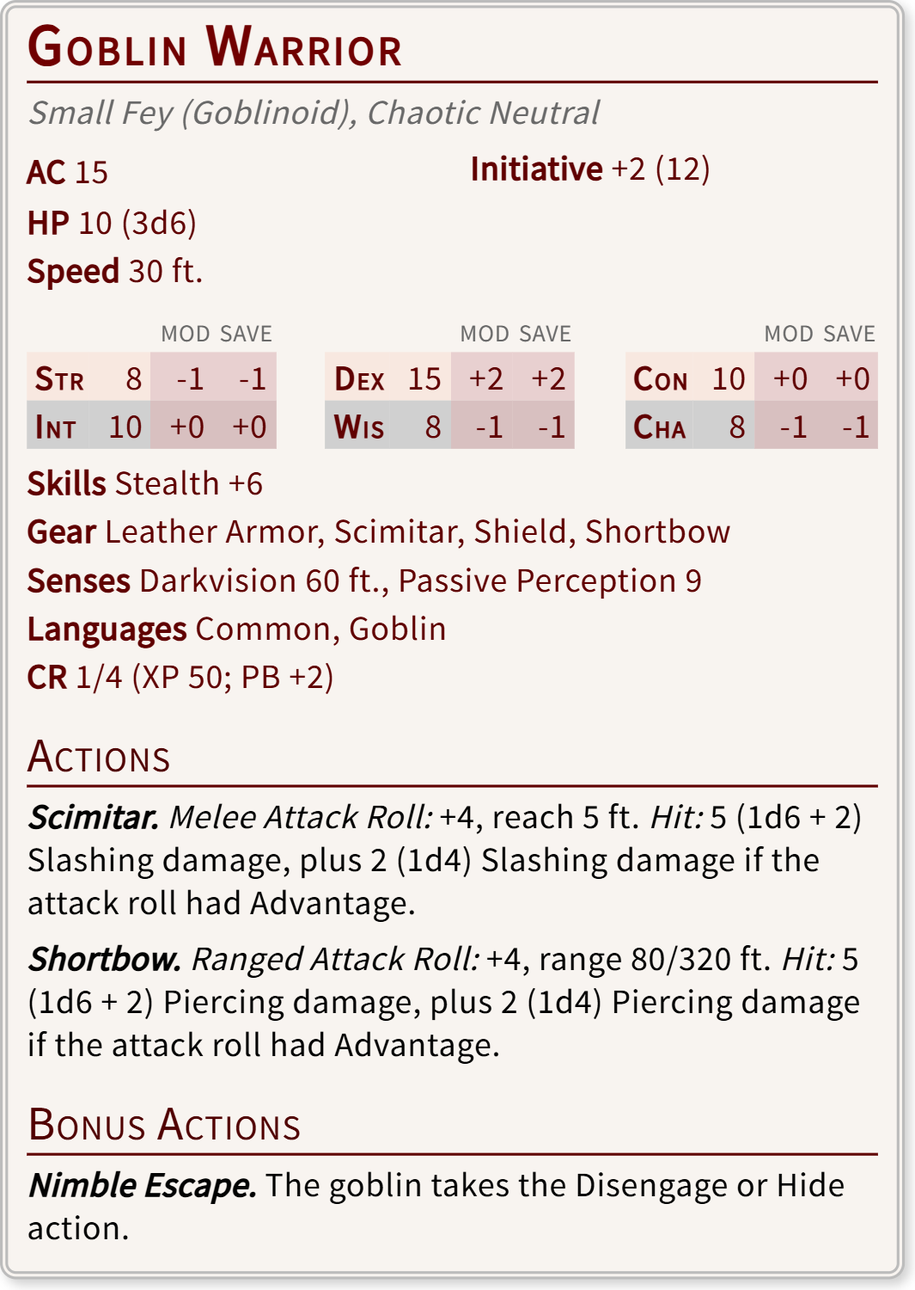
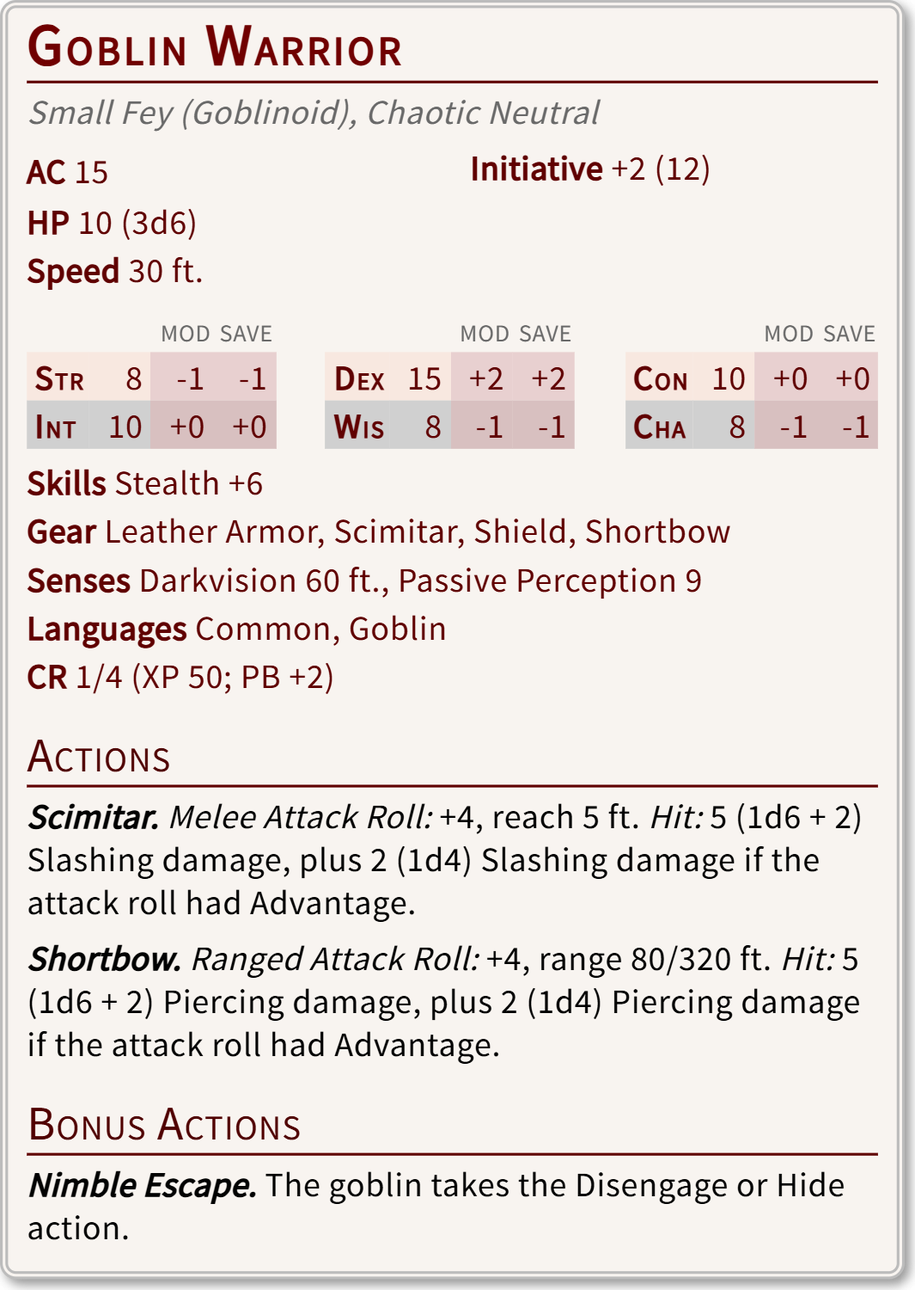
Updated demo images with new border drop shadow and updated source

Changed region(s): [[0.0, 0.0, 1.0, 1.0]]

diff --git a/js/StatblockWizardMain.js b/js/StatblockWizardMain.js
@@ -134,9 +134,9 @@ function sampleCat1() {
 }
 
 function sampleGoblinWarrior() {
-    return JSON.parse(`[{"type":"version","version":"2024.6","columns":1},{"type":"group","css":"header"},{"type":"section","caption":"General","showcaption":false,"css":"section general","captioncss":""},{"type":"string","caption":"Name","showcaption":false,"defaultvalue":"","css":"title","captioncss":"","value":"Goblin Warrior"},{"type":"string","caption":"Creature info","showcaption":false,"defaultvalue":"","css":"sizetypetagsalignment","captioncss":"","value":"Small Fey (Goblinoid), Chaotic Neutral"},{"type":"sectionend","content":"static","values":[]},{"type":"groupend"},{"type":"group","css":"core"},{"type":"section","caption":"","showcaption":false,"css":"section general2","captioncss":""},{"type":"ac2024","caption":"AC","showcaption":true,"defaultvalue":"","css":"feature armorclass","captioncss":"keyword","value":"15"},{"type":"string","caption":"Initiative","showcaption":true,"defaultvalue":"","css":"feature initiative","captioncss":"keyword","value":"+2 (12)"},{"type":"sectionend","content":"static","values":[]},{"type":"section","caption":"","showcaption":false,"css":"section general3","captioncss":""},{"type":"string","caption":"HP","showcaption":true,"defaultvalue":"","css":"feature hp","captioncss":"keyword","value":"10 (3d6)"},{"type":"string","caption":"Speed","showcaption":true,"defaultvalue":"","css":"feature speed","captioncss":"keyword","value":"30 ft."},{"type":"sectionend","content":"static","values":[]},{"type":"tablesection","caption":"Abilities","showcaption":false,"css":"section abilities","captioncss":"","tablecss":"abilitiesblock"},{"type":"ability2024","caption":"Str","modcaption":"mod","savecaption":"save","defaultvalue":"","css":"ability","captioncss":"abilityname physicalabilities","scorecss":"abilityscore physicalabilities","modifiercss":"abilitymodifier physicalmods","savecss":"abilitysave physicalmods","number":1,"value":{"score":"8","mod":"-1","save":"-1"}},{"type":"ability2024","caption":"Dex","modcaption":"mod","savecaption":"save","defaultvalue":"","css":"ability","captioncss":"abilityname physicalabilities","scorecss":"abilityscore physicalabilities","modifiercss":"abilitymodifier physicalmods","savecss":"abilitysave physicalmods","number":2,"value":{"score":"15","mod":"+2","save":"+2"}},{"type":"ability2024","caption":"Con","modcaption":"mod","savecaption":"save","defaultvalue":"","css":"ability","captioncss":"abilityname physicalabilities","scorecss":"abilityscore physicalabilities","modifiercss":"abilitymodifier physicalmods","savecss":"abilitysave physicalmods","number":3,"value":{"score":"10","mod":"+0","save":"+0"}},{"type":"ability2024","caption":"Int","modcaption":"mod","savecaption":"save","defaultvalue":"","css":"ability","captioncss":"abilityname mentalabilities","scorecss":"abilityscore mentalabilities","modifiercss":"abilitymodifier mentalmods","savecss":"abilitysave mentalmods","number":1,"value":{"score":"10","mod":"+0","save":"+0"}},{"type":"ability2024","caption":"Wis","modcaption":"mod","savecaption":"save","defaultvalue":"","css":"ability","captioncss":"abilityname mentalabilities","scorecss":"abilityscore mentalabilities","modifiercss":"abilitymodifier mentalmods","savecss":"abilitysave mentalmods","number":2,"value":{"score":"8","mod":"-1","save":"-1"}},{"type":"ability2024","caption":"Cha","modcaption":"mod","savecaption":"save","defaultvalue":"","css":"ability","captioncss":"abilityname mentalabilities","scorecss":"abilityscore mentalabilities","modifiercss":"abilitymodifier mentalmods","savecss":"abilitysave mentalmods","number":3,"value":{"score":"8","mod":"-1","save":"-1"}},{"type":"tablesectionend","content":"static"},{"type":"section","caption":"Features","showcaption":false,"css":"section features","captioncss":""},{"type":"skills5e","caption":"Skills","showcaption":true,"defaultvalue":"","css":"feature skills","captioncss":"keyword","skillcss":"skill","value":"Stealth +6"},{"type":"string","caption":"Vulnerabilities","showcaption":true,"defaultvalue":"","css":"feature vulnerabilities","captioncss":"keyword","value":""},{"type":"string","caption":"Resistances","showcaption":true,"defaultvalue":"","css":"feature resistances","captioncss":"keyword","value":""},{"type":"string","caption":"Immunities","showcaption":true,"defaultvalue":"","css":"feature immunities","captioncss":"keyword","value":""},{"type":"string","caption":"Gear","showcaption":true,"defaultvalue":"","css":"feature gear","captioncss":"keyword","value":"Leather Armor, Scimitar, Shield, Shortbow"},{"type":"senses5e","caption":"Senses","showcaption":true,"defaultvalue":"","css":"feature senses","captioncss":"keyword","value":"Darkvision 60 ft., Passive Perception 9"},{"type":"languages5e","caption":"Languages","showcaption":true,"defaultvalue":"","css":"feature languages","captioncss":"keyword","value":"Common, Goblin"},{"type":"string","caption":"CR","showcaption":true,"defaultvalue":"","css":"feature cr","captioncss":"keyword","value":"1/4 (XP 50; PB +2)"},{"type":"sectionend","content":"static","values":[]},{"type":"groupend"},{"type":"group","css":"body"},{"type":"section","caption":"Characteristics (like Personality Traits, Ideals, Bonds, Flaws) ","showcaption":false,"css":"section characteristics","captioncss":""},{"type":"sectionend","content":"dynamic","contenttypes":[{"name":"feature","type":"namedstring"},{"name":"plain text","type":"text"},{"name":"list","type":"list"}],"values":[]},{"type":"section","caption":"Traits","showcaption":true,"css":"section traits","captioncss":"sectionheader"},{"type":"sectionend","content":"dynamic","contenttypes":[{"name":"feature","type":"namedstring"},{"name":"attack","type":"attack2024"},{"name":"saving throw","type":"save2024"},{"name":"plain text","type":"text"},{"name":"list","type":"list"}],"values":[]},{"type":"section","caption":"Actions","showcaption":true,"css":"section actions","captioncss":"sectionheader"},{"type":"sectionend","content":"dynamic","contenttypes":[{"name":"feature","type":"namedstring"},{"name":"attack","type":"attack2024"},{"name":"saving throw","type":"save2024"},{"name":"plain text","type":"text"},{"name":"list","type":"list"}],"values":[{"type":"attack2024","caption":"Scimitar.","attacktype":"0","attack":"+4, reach 5 ft.","hit":"5 (1d6 + 2) Slashing damage, plus 2 (1d4) Slashing damage if the attack roll had Advantage."},{"type":"attack2024","caption":"Shortbow.","attacktype":"1","attack":"+4, range 80/320 ft.","hit":"5 (1d6 + 2) Piercing damage, plus 2 (1d4) Piercing damage if the attack roll had Advantage."}]},{"type":"section","caption":"Bonus Actions","showcaption":true,"css":"section bonusactions","captioncss":"sectionheader"},{"type":"sectionend","content":"dynamic","contenttypes":[{"name":"feature","type":"namedstring"},{"name":"attack","type":"attack2024"},{"name":"saving throw","type":"save2024"},{"name":"plain text","type":"text"},{"name":"list","type":"list"}],"values":[{"type":"namedstring","caption":"Nimble Escape.","value":"The goblin takes the Disengage or Hide action."}]},{"type":"section","caption":"Reactions","showcaption":true,"css":"section reactions","captioncss":"sectionheader"},{"type":"sectionend","content":"dynamic","contenttypes":[{"name":"reaction","type":"reaction2024"},{"name":"feature","type":"namedstring"},{"name":"attack","type":"attack2024"},{"name":"saving throw","type":"save2024"},{"name":"plain text","type":"text"},{"name":"list","type":"list"}],"values":[]},{"type":"section","caption":"Legendary Actions","showcaption":true,"css":"section legendaryactions","captioncss":"sectionheader"},{"type":"sectionend","content":"dynamic","contenttypes":[{"name":"legendary text","type":"legendarytext"},{"name":"feature","type":"namedstring"},{"name":"attack","type":"attack2024"},{"name":"saving throw","type":"save2024"},{"name":"plain text","type":"text"},{"name":"list","type":"list"}],"values":[]},{"type":"section","caption":"Epic Actions","showcaption":true,"css":"section epicactions","captioncss":"sectionheader"},{"type":"sectionend","content":"dynamic","contenttypes":[{"name":"legendary text","type":"legendarytext"},{"name":"feature","type":"namedstring"},{"name":"attack","type":"attack2024"},{"name":"saving throw","type":"save2024"},{"name":"plain text","type":"text"},{"name":"list","type":"list"}],"values":[]},{"type":"groupend"},{"type":"section","caption":"Supplemental","showcaption":false,"css":"section supplemental","captioncss":""},{"type":"image","caption":"Image","showcaption":false,"css":"image","maxheight":0,"position":"last","alignment":"center","beforeclass":"core","value":"","credits":""},{"type":"sectionend","content":"static","values":[]},{"type":"css","fortype":"namedstring","css":"line namedstring","captioncss":"keyword"},{"type":"css","fortype":"text","css":"line text"},{"type":"css","fortype":"legendarytext","css":"line legendarytext"},{"type":"css","fortype":"attack2024","css":"line attack","captioncss":"keyword","attackcss":"attacktype","hitcss":"hit"},{"type":"css","fortype":"save2024","css":"line savingthrow","captioncss":"keyword","savetypecss":"savingthrowtype","saveresultcss":"savingthrowresult"},{"type":"css","fortype":"reaction2024","css":"line reaction","captioncss":"keyword","triggercss":"trigger","responsecss":"response"},{"type":"css","fortype":"list","forsubtype":"ul","listcss":"line list-ul","css":"listitem","captioncss":"keyword"},{"type":"css","fortype":"list","forsubtype":"ol","listcss":"line list-ol","css":"listitem","captioncss":"keyword"},{"type":"css","fortype":"list","forsubtype":"dl","listcss":"line list-dl","css":"listitem","captioncss":"keyword"},{"type":"css","fortype":"list","forsubtype":"spells5e","listcss":"line list-spells5e","captioncss":"spellliststart","css":"spelllist","spellcss":"spell"}]`);
+    return JSON.parse(`[{"type":"version","version":"2024.8","columns":1},{"type":"group","css":"header"},{"type":"section","caption":"General","showcaption":false,"css":"section general","captioncss":""},{"type":"string","caption":"Name","showcaption":false,"defaultvalue":"","css":"title","captioncss":"","value":"Goblin Warrior"},{"type":"string","caption":"Creature info","showcaption":false,"defaultvalue":"","css":"sizetypetagsalignment","captioncss":"","value":"Small Fey (Goblinoid), Chaotic Neutral"},{"type":"sectionend","content":"static","values":[]},{"type":"groupend"},{"type":"group","css":"core"},{"type":"section","caption":"","showcaption":false,"css":"section general2","captioncss":""},{"type":"ac2024","caption":"AC","showcaption":true,"defaultvalue":"","css":"feature armorclass","captioncss":"keyword","value":"15"},{"type":"string","caption":"Initiative","showcaption":true,"defaultvalue":"","css":"feature initiative","captioncss":"keyword","value":"+2 (12)"},{"type":"sectionend","content":"static","values":[]},{"type":"section","caption":"","showcaption":false,"css":"section general3","captioncss":""},{"type":"string","caption":"HP","showcaption":true,"defaultvalue":"","css":"feature hp","captioncss":"keyword","value":"10 (3d6)"},{"type":"string","caption":"Speed","showcaption":true,"defaultvalue":"","css":"feature speed","captioncss":"keyword","value":"30 ft."},{"type":"sectionend","content":"static","values":[]},{"type":"tablesection","caption":"Abilities","showcaption":false,"css":"section abilities","captioncss":"","tablecss":"abilitiesblock"},{"type":"ability2024","caption":"Str","modcaption":"mod","savecaption":"save","defaultvalue":"","css":"ability","captioncss":"abilityname physicalabilities","scorecss":"abilityscore physicalabilities","modifiercss":"abilitymodifier physicalmods","savecss":"abilitysave physicalmods","number":1,"value":{"score":"8","mod":"-1","save":"-1"}},{"type":"ability2024","caption":"Dex","modcaption":"mod","savecaption":"save","defaultvalue":"","css":"ability","captioncss":"abilityname physicalabilities","scorecss":"abilityscore physicalabilities","modifiercss":"abilitymodifier physicalmods","savecss":"abilitysave physicalmods","number":2,"value":{"score":"15","mod":"+2","save":"+2"}},{"type":"ability2024","caption":"Con","modcaption":"mod","savecaption":"save","defaultvalue":"","css":"ability","captioncss":"abilityname physicalabilities","scorecss":"abilityscore physicalabilities","modifiercss":"abilitymodifier physicalmods","savecss":"abilitysave physicalmods","number":3,"value":{"score":"10","mod":"+0","save":"+0"}},{"type":"ability2024","caption":"Int","modcaption":"mod","savecaption":"save","defaultvalue":"","css":"ability","captioncss":"abilityname mentalabilities","scorecss":"abilityscore mentalabilities","modifiercss":"abilitymodifier mentalmods","savecss":"abilitysave mentalmods","number":1,"value":{"score":"10","mod":"+0","save":"+0"}},{"type":"ability2024","caption":"Wis","modcaption":"mod","savecaption":"save","defaultvalue":"","css":"ability","captioncss":"abilityname mentalabilities","scorecss":"abilityscore mentalabilities","modifiercss":"abilitymodifier mentalmods","savecss":"abilitysave mentalmods","number":2,"value":{"score":"8","mod":"-1","save":"-1"}},{"type":"ability2024","caption":"Cha","modcaption":"mod","savecaption":"save","defaultvalue":"","css":"ability","captioncss":"abilityname mentalabilities","scorecss":"abilityscore mentalabilities","modifiercss":"abilitymodifier mentalmods","savecss":"abilitysave mentalmods","number":3,"value":{"score":"8","mod":"-1","save":"-1"}},{"type":"tablesectionend","content":"static"},{"type":"section","caption":"Features","showcaption":false,"css":"section features","captioncss":""},{"type":"skills5e","caption":"Skills","showcaption":true,"defaultvalue":"","css":"feature skills","captioncss":"keyword","skillcss":"skill","value":"Stealth +6"},{"type":"string","caption":"Vulnerabilities","showcaption":true,"defaultvalue":"","css":"feature vulnerabilities","captioncss":"keyword","value":""},{"type":"string","caption":"Resistances","showcaption":true,"defaultvalue":"","css":"feature resistances","captioncss":"keyword","value":""},{"type":"string","caption":"Immunities","showcaption":true,"defaultvalue":"","css":"feature immunities","captioncss":"keyword","value":""},{"type":"string","caption":"Gear","showcaption":true,"defaultvalue":"","css":"feature gear","captioncss":"keyword","value":"Leather Armor, Scimitar, Shield, Shortbow"},{"type":"senses5e","caption":"Senses","showcaption":true,"defaultvalue":"","css":"feature senses","captioncss":"keyword","value":"Darkvision 60 ft., Passive Perception 9"},{"type":"languages5e","caption":"Languages","showcaption":true,"defaultvalue":"","css":"feature languages","captioncss":"keyword","value":"Common, Goblin"},{"type":"string","caption":"CR","showcaption":true,"defaultvalue":"","css":"feature cr","captioncss":"keyword","value":"1/4 (XP 50; PB +2)"},{"type":"sectionend","content":"static","values":[]},{"type":"groupend"},{"type":"group","css":"body"},{"type":"section","caption":"Characteristics (like Personality Traits, Ideals, Bonds, Flaws) ","showcaption":false,"css":"section characteristics","captioncss":""},{"type":"sectionend","content":"dynamic","contenttypes":[{"name":"feature","type":"namedstring"},{"name":"plain text","type":"text"},{"name":"list","type":"list"}],"values":[]},{"type":"section","caption":"Traits","showcaption":true,"css":"section traits","captioncss":"sectionheader"},{"type":"sectionend","content":"dynamic","contenttypes":[{"name":"feature","type":"namedstring"},{"name":"attack","type":"attack2024"},{"name":"saving throw","type":"save2024"},{"name":"plain text","type":"text"},{"name":"list","type":"list"}],"values":[]},{"type":"section","caption":"Actions","showcaption":true,"css":"section actions","captioncss":"sectionheader"},{"type":"sectionend","content":"dynamic","contenttypes":[{"name":"feature","type":"namedstring"},{"name":"attack","type":"attack2024"},{"name":"saving throw","type":"save2024"},{"name":"plain text","type":"text"},{"name":"list","type":"list"}],"values":[{"type":"attack2024","caption":"Scimitar.","attacktype":"0","attack":"+4, reach 5 ft.","hit":"5 (1d6 + 2) Slashing damage, plus 2 (1d4) Slashing damage if the attack roll had Advantage.","hitmiss":""},{"type":"attack2024","caption":"Shortbow.","attacktype":"1","attack":"+4, range 80/320 ft.","hit":"5 (1d6 + 2) Piercing damage, plus 2 (1d4) Piercing damage if the attack roll had Advantage.","hitmiss":""}]},{"type":"section","caption":"Bonus Actions","showcaption":true,"css":"section bonusactions","captioncss":"sectionheader"},{"type":"sectionend","content":"dynamic","contenttypes":[{"name":"feature","type":"namedstring"},{"name":"attack","type":"attack2024"},{"name":"saving throw","type":"save2024"},{"name":"plain text","type":"text"},{"name":"list","type":"list"}],"values":[{"type":"namedstring","caption":"Nimble Escape.","value":"The goblin takes the Disengage or Hide action."}]},{"type":"section","caption":"Reactions","showcaption":true,"css":"section reactions","captioncss":"sectionheader"},{"type":"sectionend","content":"dynamic","contenttypes":[{"name":"reaction","type":"reaction2024"},{"name":"feature","type":"namedstring"},{"name":"attack","type":"attack2024"},{"name":"saving throw","type":"save2024"},{"name":"plain text","type":"text"},{"name":"list","type":"list"}],"values":[]},{"type":"section","caption":"Legendary Actions","showcaption":true,"css":"section legendaryactions","captioncss":"sectionheader"},{"type":"sectionend","content":"dynamic","contenttypes":[{"name":"legendary text","type":"legendarytext"},{"name":"feature","type":"namedstring"},{"name":"attack","type":"attack2024"},{"name":"saving throw","type":"save2024"},{"name":"plain text","type":"text"},{"name":"list","type":"list"}],"values":[]},{"type":"section","caption":"Epic Actions","showcaption":true,"css":"section epicactions","captioncss":"sectionheader"},{"type":"sectionend","content":"dynamic","contenttypes":[{"name":"legendary text","type":"legendarytext"},{"name":"feature","type":"namedstring"},{"name":"attack","type":"attack2024"},{"name":"saving throw","type":"save2024"},{"name":"plain text","type":"text"},{"name":"list","type":"list"}],"values":[]},{"type":"groupend"},{"type":"section","caption":"Supplemental","showcaption":false,"css":"section supplemental","captioncss":""},{"type":"image","caption":"Image","showcaption":false,"css":"image","maxheight":0,"position":"last","alignment":"center","beforeclass":"core","value":"","credits":""},{"type":"sectionend","content":"static","values":[]},{"type":"attribution","caption":"Attribution","defaultvalue":"","css1":"attribution1","css2":"StatblockWizard-attribution2"},{"type":"css","fortype":"namedstring","css":"line namedstring","captioncss":"keyword"},{"type":"css","fortype":"text","css":"line text"},{"type":"css","fortype":"legendarytext","css":"line legendarytext"},{"type":"css","fortype":"attack2024","css":"line attack","captioncss":"keyword","attackcss":"attacktype","hitcss":"hit","hitmisscss":"hitmiss"},{"type":"css","fortype":"save2024","css":"line savingthrow","captioncss":"keyword","savetypecss":"savingthrowtype","saveresultcss":"savingthrowresult"},{"type":"css","fortype":"reaction2024","css":"line reaction","captioncss":"keyword","triggercss":"trigger","responsecss":"response"},{"type":"css","fortype":"list","forsubtype":"ul","listcss":"line list-ul","css":"listitem","captioncss":"keyword"},{"type":"css","fortype":"list","forsubtype":"ol","listcss":"line list-ol","css":"listitem","captioncss":"keyword"},{"type":"css","fortype":"list","forsubtype":"dl","listcss":"line list-dl","css":"listitem","captioncss":"keyword"},{"type":"css","fortype":"list","forsubtype":"spells5e","listcss":"line list-spells5e","captioncss":"spellliststart","css":"spelllist","spellcss":"spell"}]`);
 }
 
 function sampleIncubus() {
-    return JSON.parse(`[{"type":"version","version":"2024.6","columns":2},{"type":"group","css":"header"},{"type":"section","caption":"General","showcaption":false,"css":"section general","captioncss":""},{"type":"string","caption":"Name","showcaption":false,"defaultvalue":"","css":"title","captioncss":"","value":"Incubus"},{"type":"string","caption":"Creature info","showcaption":false,"defaultvalue":"","css":"sizetypetagsalignment","captioncss":"","value":"Medium Fiend, Neutral Evil"},{"type":"sectionend","content":"static","values":[]},{"type":"groupend"},{"type":"group","css":"core"},{"type":"section","caption":"","showcaption":false,"css":"section general2","captioncss":""},{"type":"ac2024","caption":"AC","showcaption":true,"defaultvalue":"","css":"feature armorclass","captioncss":"keyword","value":"15"},{"type":"string","caption":"Initiative","showcaption":true,"defaultvalue":"","css":"feature initiative","captioncss":"keyword","value":"+3 (13)"},{"type":"sectionend","content":"static","values":[]},{"type":"section","caption":"","showcaption":false,"css":"section general3","captioncss":""},{"type":"string","caption":"HP","showcaption":true,"defaultvalue":"","css":"feature hp","captioncss":"keyword","value":"66 (12d8 + 12)"},{"type":"string","caption":"Speed","showcaption":true,"defaultvalue":"","css":"feature speed","captioncss":"keyword","value":"30 ft., fly 60 ft."},{"type":"sectionend","content":"static","values":[]},{"type":"tablesection","caption":"Abilities","showcaption":false,"css":"section abilities","captioncss":"","tablecss":"abilitiesblock"},{"type":"ability2024","caption":"Str","modcaption":"mod","savecaption":"save","defaultvalue":"","css":"ability","captioncss":"abilityname physicalabilities","scorecss":"abilityscore physicalabilities","modifiercss":"abilitymodifier physicalmods","savecss":"abilitysave physicalmods","number":1,"value":{"score":"8","mod":"-1","save":"-1"}},{"type":"ability2024","caption":"Dex","modcaption":"mod","savecaption":"save","defaultvalue":"","css":"ability","captioncss":"abilityname physicalabilities","scorecss":"abilityscore physicalabilities","modifiercss":"abilitymodifier physicalmods","savecss":"abilitysave physicalmods","number":2,"value":{"score":"17","mod":"+3","save":"+3"}},{"type":"ability2024","caption":"Con","modcaption":"mod","savecaption":"save","defaultvalue":"","css":"ability","captioncss":"abilityname physicalabilities","scorecss":"abilityscore physicalabilities","modifiercss":"abilitymodifier physicalmods","savecss":"abilitysave physicalmods","number":3,"value":{"score":"13","mod":"+1","save":"+1"}},{"type":"ability2024","caption":"Int","modcaption":"mod","savecaption":"save","defaultvalue":"","css":"ability","captioncss":"abilityname mentalabilities","scorecss":"abilityscore mentalabilities","modifiercss":"abilitymodifier mentalmods","savecss":"abilitysave mentalmods","number":1,"value":{"score":"15","mod":"+2","save":"+2"}},{"type":"ability2024","caption":"Wis","modcaption":"mod","savecaption":"save","defaultvalue":"","css":"ability","captioncss":"abilityname mentalabilities","scorecss":"abilityscore mentalabilities","modifiercss":"abilitymodifier mentalmods","savecss":"abilitysave mentalmods","number":2,"value":{"score":"12","mod":"+1","save":"+1"}},{"type":"ability2024","caption":"Cha","modcaption":"mod","savecaption":"save","defaultvalue":"","css":"ability","captioncss":"abilityname mentalabilities","scorecss":"abilityscore mentalabilities","modifiercss":"abilitymodifier mentalmods","savecss":"abilitysave mentalmods","number":3,"value":{"score":"20","mod":"+5","save":"+5"}},{"type":"tablesectionend","content":"static"},{"type":"section","caption":"Features","showcaption":false,"css":"section features","captioncss":""},{"type":"skills5e","caption":"Skills","showcaption":true,"defaultvalue":"","css":"feature skills","captioncss":"keyword","skillcss":"skill","value":"Deception +9, Insight +5, Perception +5, Persuasion +9, Stealth +7"},{"type":"string","caption":"Vulnerabilities","showcaption":true,"defaultvalue":"","css":"feature vulnerabilities","captioncss":"keyword","value":""},{"type":"string","caption":"Resistances","showcaption":true,"defaultvalue":"","css":"feature resistances","captioncss":"keyword","value":"Cold, Fire, Poison, Psychic"},{"type":"string","caption":"Immunities","showcaption":true,"defaultvalue":"","css":"feature immunities","captioncss":"keyword","value":""},{"type":"string","caption":"Gear","showcaption":true,"defaultvalue":"","css":"feature gear","captioncss":"keyword","value":""},{"type":"senses5e","caption":"Senses","showcaption":true,"defaultvalue":"","css":"feature senses","captioncss":"keyword","value":"Darkvision 60 ft., Passive Perception 15"},{"type":"languages5e","caption":"Languages","showcaption":true,"defaultvalue":"","css":"feature languages","captioncss":"keyword","value":"Abyssal, Common, Infernal, Telepathy 60 ft."},{"type":"string","caption":"CR","showcaption":true,"defaultvalue":"","css":"feature cr","captioncss":"keyword","value":"4 (XP 1,100; PB +2)"},{"type":"sectionend","content":"static","values":[]},{"type":"groupend"},{"type":"group","css":"body"},{"type":"section","caption":"Characteristics (like Personality Traits, Ideals, Bonds, Flaws) ","showcaption":false,"css":"section characteristics","captioncss":""},{"type":"sectionend","content":"dynamic","contenttypes":[{"name":"feature","type":"namedstring"},{"name":"plain text","type":"text"},{"name":"list","type":"list"}],"values":[]},{"type":"section","caption":"Traits","showcaption":true,"css":"section traits","captioncss":"sectionheader"},{"type":"sectionend","content":"dynamic","contenttypes":[{"name":"feature","type":"namedstring"},{"name":"plain text","type":"text"},{"name":"list","type":"list"}],"values":[{"type":"namedstring","caption":"Succubus Form.","value":"When the incubus finishes a Long Rest, it can shape-shift into a Succubus, using that stat block instead of this one. Any equipment it is wearing or carrying isn’t transformed."}]},{"type":"section","caption":"Actions","showcaption":true,"css":"section actions","captioncss":"sectionheader"},{"type":"sectionend","content":"dynamic","contenttypes":[{"name":"feature","type":"namedstring"},{"name":"attack","type":"attack2024"},{"name":"saving throw","type":"save2024"},{"name":"plain text","type":"text"},{"name":"list","type":"list"}],"values":[{"type":"namedstring","caption":"Multiattack.","value":"The incubus makes two Restless Touch attacks."},{"type":"attack2024","caption":"Restless Touch.","attacktype":"0","attack":"+7, reach 5 ft.","hit":"15 (3d6 + 5) Psychic damage, and the target is cursed for 24 hours or until the incubus dies. Until the curse ends, the target gains no benefit from finishing Short Rests."},{"type":"namedstring","caption":"Spellcasting.","value":"The incubus casts one of the following spells, requiring no Material components and using Charisma as the spellcasting ability (spell save DC 15):"},{"type":"list","listtype":"spells5e","values":[{"dt":"At Will:","dd":"Disguise Self, Etherealness"},{"dt":"1/Day Each:","dd":"Dream, Hypnotic Pattern"}]}]},{"type":"section","caption":"Bonus Actions","showcaption":true,"css":"section bonusactions","captioncss":"sectionheader"},{"type":"sectionend","content":"dynamic","contenttypes":[{"name":"feature","type":"namedstring"},{"name":"attack","type":"attack2024"},{"name":"saving throw","type":"save2024"},{"name":"plain text","type":"text"},{"name":"list","type":"list"}],"values":[{"type":"save2024","caption":"Nightmare (Recharge 6).","savetype":"4","savedc":"DC 15, one creature the incubus can see within 60 feet.","failure":"If the target has 20 Hit Points or fewer, it has the Unconscious condition for 1 hour, until it takes damage, or until a creature within 5 feet of it takes an action to wake it. Otherwise, the target takes 18 (4d8) Psychic damage.","success":"","failureorsuccess":""}]},{"type":"section","caption":"Reactions","showcaption":true,"css":"section reactions","captioncss":"sectionheader"},{"type":"sectionend","content":"dynamic","contenttypes":[{"name":"reaction","type":"reaction2024"},{"name":"feature","type":"namedstring"},{"name":"attack","type":"attack2024"},{"name":"saving throw","type":"save2024"},{"name":"plain text","type":"text"},{"name":"list","type":"list"}],"values":[]},{"type":"section","caption":"Legendary Actions","showcaption":true,"css":"section legendaryactions","captioncss":"sectionheader"},{"type":"sectionend","content":"dynamic","contenttypes":[{"name":"legendary text","type":"legendarytext"},{"name":"feature","type":"namedstring"},{"name":"attack","type":"attack2024"},{"name":"saving throw","type":"save2024"},{"name":"plain text","type":"text"},{"name":"list","type":"list"}],"values":[]},{"type":"section","caption":"Epic Actions","showcaption":true,"css":"section epicactions","captioncss":"sectionheader"},{"type":"sectionend","content":"dynamic","contenttypes":[{"name":"legendary text","type":"legendarytext"},{"name":"feature","type":"namedstring"},{"name":"attack","type":"attack2024"},{"name":"saving throw","type":"save2024"},{"name":"plain text","type":"text"},{"name":"list","type":"list"}],"values":[]},{"type":"groupend"},{"type":"section","caption":"Supplemental","showcaption":false,"css":"section supplemental","captioncss":""},{"type":"image","caption":"Image","showcaption":false,"css":"image","maxheight":0,"position":"last","alignment":"center","beforeclass":"core","value":"","credits":""},{"type":"sectionend","content":"static","values":[]},{"type":"css","fortype":"namedstring","css":"line namedstring","captioncss":"keyword"},{"type":"css","fortype":"text","css":"line text"},{"type":"css","fortype":"legendarytext","css":"line legendarytext"},{"type":"css","fortype":"attack2024","css":"line attack","captioncss":"keyword","attackcss":"attacktype","hitcss":"hit"},{"type":"css","fortype":"save2024","css":"line savingthrow","captioncss":"keyword","savetypecss":"savingthrowtype","saveresultcss":"savingthrowresult"},{"type":"css","fortype":"reaction2024","css":"line reaction","captioncss":"keyword","triggercss":"trigger","responsecss":"response"},{"type":"css","fortype":"list","forsubtype":"ul","listcss":"line list-ul","css":"listitem","captioncss":"keyword"},{"type":"css","fortype":"list","forsubtype":"ol","listcss":"line list-ol","css":"listitem","captioncss":"keyword"},{"type":"css","fortype":"list","forsubtype":"dl","listcss":"line list-dl","css":"listitem","captioncss":"keyword"},{"type":"css","fortype":"list","forsubtype":"spells5e","listcss":"line list-spells5e","captioncss":"spellliststart","css":"spelllist","spellcss":"spell"}]`);
+    return JSON.parse(`[{"type":"version","version":"2024.8","columns":2},{"type":"group","css":"header"},{"type":"section","caption":"General","showcaption":false,"css":"section general","captioncss":""},{"type":"string","caption":"Name","showcaption":false,"defaultvalue":"","css":"title","captioncss":"","value":"Incubus"},{"type":"string","caption":"Creature info","showcaption":false,"defaultvalue":"","css":"sizetypetagsalignment","captioncss":"","value":"Medium Fiend, Neutral Evil"},{"type":"sectionend","content":"static","values":[]},{"type":"groupend"},{"type":"group","css":"core"},{"type":"section","caption":"","showcaption":false,"css":"section general2","captioncss":""},{"type":"ac2024","caption":"AC","showcaption":true,"defaultvalue":"","css":"feature armorclass","captioncss":"keyword","value":"15"},{"type":"string","caption":"Initiative","showcaption":true,"defaultvalue":"","css":"feature initiative","captioncss":"keyword","value":"+3 (13)"},{"type":"sectionend","content":"static","values":[]},{"type":"section","caption":"","showcaption":false,"css":"section general3","captioncss":""},{"type":"string","caption":"HP","showcaption":true,"defaultvalue":"","css":"feature hp","captioncss":"keyword","value":"66 (12d8 + 12)"},{"type":"string","caption":"Speed","showcaption":true,"defaultvalue":"","css":"feature speed","captioncss":"keyword","value":"30 ft., fly 60 ft."},{"type":"sectionend","content":"static","values":[]},{"type":"tablesection","caption":"Abilities","showcaption":false,"css":"section abilities","captioncss":"","tablecss":"abilitiesblock"},{"type":"ability2024","caption":"Str","modcaption":"mod","savecaption":"save","defaultvalue":"","css":"ability","captioncss":"abilityname physicalabilities","scorecss":"abilityscore physicalabilities","modifiercss":"abilitymodifier physicalmods","savecss":"abilitysave physicalmods","number":1,"value":{"score":"8","mod":"-1","save":"-1"}},{"type":"ability2024","caption":"Dex","modcaption":"mod","savecaption":"save","defaultvalue":"","css":"ability","captioncss":"abilityname physicalabilities","scorecss":"abilityscore physicalabilities","modifiercss":"abilitymodifier physicalmods","savecss":"abilitysave physicalmods","number":2,"value":{"score":"17","mod":"+3","save":"+3"}},{"type":"ability2024","caption":"Con","modcaption":"mod","savecaption":"save","defaultvalue":"","css":"ability","captioncss":"abilityname physicalabilities","scorecss":"abilityscore physicalabilities","modifiercss":"abilitymodifier physicalmods","savecss":"abilitysave physicalmods","number":3,"value":{"score":"13","mod":"+1","save":"+1"}},{"type":"ability2024","caption":"Int","modcaption":"mod","savecaption":"save","defaultvalue":"","css":"ability","captioncss":"abilityname mentalabilities","scorecss":"abilityscore mentalabilities","modifiercss":"abilitymodifier mentalmods","savecss":"abilitysave mentalmods","number":1,"value":{"score":"15","mod":"+2","save":"+2"}},{"type":"ability2024","caption":"Wis","modcaption":"mod","savecaption":"save","defaultvalue":"","css":"ability","captioncss":"abilityname mentalabilities","scorecss":"abilityscore mentalabilities","modifiercss":"abilitymodifier mentalmods","savecss":"abilitysave mentalmods","number":2,"value":{"score":"12","mod":"+1","save":"+1"}},{"type":"ability2024","caption":"Cha","modcaption":"mod","savecaption":"save","defaultvalue":"","css":"ability","captioncss":"abilityname mentalabilities","scorecss":"abilityscore mentalabilities","modifiercss":"abilitymodifier mentalmods","savecss":"abilitysave mentalmods","number":3,"value":{"score":"20","mod":"+5","save":"+5"}},{"type":"tablesectionend","content":"static"},{"type":"section","caption":"Features","showcaption":false,"css":"section features","captioncss":""},{"type":"skills5e","caption":"Skills","showcaption":true,"defaultvalue":"","css":"feature skills","captioncss":"keyword","skillcss":"skill","value":"Deception +9, Insight +5, Perception +5, Persuasion +9, Stealth +7"},{"type":"string","caption":"Vulnerabilities","showcaption":true,"defaultvalue":"","css":"feature vulnerabilities","captioncss":"keyword","value":""},{"type":"string","caption":"Resistances","showcaption":true,"defaultvalue":"","css":"feature resistances","captioncss":"keyword","value":"Cold, Fire, Poison, Psychic"},{"type":"string","caption":"Immunities","showcaption":true,"defaultvalue":"","css":"feature immunities","captioncss":"keyword","value":""},{"type":"string","caption":"Gear","showcaption":true,"defaultvalue":"","css":"feature gear","captioncss":"keyword","value":""},{"type":"senses5e","caption":"Senses","showcaption":true,"defaultvalue":"","css":"feature senses","captioncss":"keyword","value":"Darkvision 60 ft., Passive Perception 15"},{"type":"languages5e","caption":"Languages","showcaption":true,"defaultvalue":"","css":"feature languages","captioncss":"keyword","value":"Abyssal, Common, Infernal, Telepathy 60 ft."},{"type":"string","caption":"CR","showcaption":true,"defaultvalue":"","css":"feature cr","captioncss":"keyword","value":"4 (XP 1,100; PB +2)"},{"type":"sectionend","content":"static","values":[]},{"type":"groupend"},{"type":"group","css":"body"},{"type":"section","caption":"Characteristics (like Personality Traits, Ideals, Bonds, Flaws) ","showcaption":false,"css":"section characteristics","captioncss":""},{"type":"sectionend","content":"dynamic","contenttypes":[{"name":"feature","type":"namedstring"},{"name":"plain text","type":"text"},{"name":"list","type":"list"}],"values":[]},{"type":"section","caption":"Traits","showcaption":true,"css":"section traits","captioncss":"sectionheader"},{"type":"sectionend","content":"dynamic","contenttypes":[{"name":"feature","type":"namedstring"},{"name":"plain text","type":"text"},{"name":"list","type":"list"}],"values":[{"type":"namedstring","caption":"Succubus Form.","value":"When the incubus finishes a Long Rest, it can shape-shift into a Succubus, using that stat block instead of this one. Any equipment it is wearing or carrying isn’t transformed."}]},{"type":"section","caption":"Actions","showcaption":true,"css":"section actions","captioncss":"sectionheader"},{"type":"sectionend","content":"dynamic","contenttypes":[{"name":"feature","type":"namedstring"},{"name":"attack","type":"attack2024"},{"name":"saving throw","type":"save2024"},{"name":"plain text","type":"text"},{"name":"list","type":"list"}],"values":[{"type":"namedstring","caption":"Multiattack.","value":"The incubus makes two Restless Touch attacks."},{"type":"attack2024","caption":"Restless Touch.","attacktype":"0","attack":"+7, reach 5 ft.","hit":"15 (3d6 + 5) Psychic damage, and the target is cursed for 24 hours or until the incubus dies. Until the curse ends, the target gains no benefit from finishing Short Rests.","hitmiss":""},{"type":"namedstring","caption":"Spellcasting.","value":"The incubus casts one of the following spells, requiring no Material components and using Charisma as the spellcasting ability (spell save DC 15):"},{"type":"list","listtype":"spells5e","values":[{"dt":"At Will:","dd":"Disguise Self, Etherealness"},{"dt":"1/Day Each:","dd":"Dream, Hypnotic Pattern"}]}]},{"type":"section","caption":"Bonus Actions","showcaption":true,"css":"section bonusactions","captioncss":"sectionheader"},{"type":"sectionend","content":"dynamic","contenttypes":[{"name":"feature","type":"namedstring"},{"name":"attack","type":"attack2024"},{"name":"saving throw","type":"save2024"},{"name":"plain text","type":"text"},{"name":"list","type":"list"}],"values":[{"type":"save2024","caption":"Nightmare (Recharge 6).","savetype":"4","savedc":"DC 15, one creature the incubus can see within 60 feet.","failure":"If the target has 20 Hit Points or fewer, it has the Unconscious condition for 1 hour, until it takes damage, or until a creature within 5 feet of it takes an action to wake it. Otherwise, the target takes 18 (4d8) Psychic damage.","secondfailure":"undefined","success":"","failureorsuccess":""}]},{"type":"section","caption":"Reactions","showcaption":true,"css":"section reactions","captioncss":"sectionheader"},{"type":"sectionend","content":"dynamic","contenttypes":[{"name":"reaction","type":"reaction2024"},{"name":"feature","type":"namedstring"},{"name":"attack","type":"attack2024"},{"name":"saving throw","type":"save2024"},{"name":"plain text","type":"text"},{"name":"list","type":"list"}],"values":[]},{"type":"section","caption":"Legendary Actions","showcaption":true,"css":"section legendaryactions","captioncss":"sectionheader"},{"type":"sectionend","content":"dynamic","contenttypes":[{"name":"legendary text","type":"legendarytext"},{"name":"feature","type":"namedstring"},{"name":"attack","type":"attack2024"},{"name":"saving throw","type":"save2024"},{"name":"plain text","type":"text"},{"name":"list","type":"list"}],"values":[]},{"type":"section","caption":"Epic Actions","showcaption":true,"css":"section epicactions","captioncss":"sectionheader"},{"type":"sectionend","content":"dynamic","contenttypes":[{"name":"legendary text","type":"legendarytext"},{"name":"feature","type":"namedstring"},{"name":"attack","type":"attack2024"},{"name":"saving throw","type":"save2024"},{"name":"plain text","type":"text"},{"name":"list","type":"list"}],"values":[]},{"type":"groupend"},{"type":"section","caption":"Supplemental","showcaption":false,"css":"section supplemental","captioncss":""},{"type":"image","caption":"Image","showcaption":false,"css":"image","maxheight":0,"position":"last","alignment":"center","beforeclass":"core","value":"","credits":""},{"type":"sectionend","content":"static","values":[]},{"type":"attribution","caption":"Attribution","defaultvalue":"","css1":"attribution1","css2":"StatblockWizard-attribution2","value":""},{"type":"css","fortype":"namedstring","css":"line namedstring","captioncss":"keyword"},{"type":"css","fortype":"text","css":"line text"},{"type":"css","fortype":"legendarytext","css":"line legendarytext"},{"type":"css","fortype":"attack2024","css":"line attack","captioncss":"keyword","attackcss":"attacktype","hitcss":"hit","hitmisscss":"hitmiss"},{"type":"css","fortype":"save2024","css":"line savingthrow","captioncss":"keyword","savetypecss":"savingthrowtype","saveresultcss":"savingthrowresult"},{"type":"css","fortype":"reaction2024","css":"line reaction","captioncss":"keyword","triggercss":"trigger","responsecss":"response"},{"type":"css","fortype":"list","forsubtype":"ul","listcss":"line list-ul","css":"listitem","captioncss":"keyword"},{"type":"css","fortype":"list","forsubtype":"ol","listcss":"line list-ol","css":"listitem","captioncss":"keyword"},{"type":"css","fortype":"list","forsubtype":"dl","listcss":"line list-dl","css":"listitem","captioncss":"keyword"},{"type":"css","fortype":"list","forsubtype":"spells5e","listcss":"line list-spells5e","captioncss":"spellliststart","css":"spelllist","spellcss":"spell"}]`);
 }
